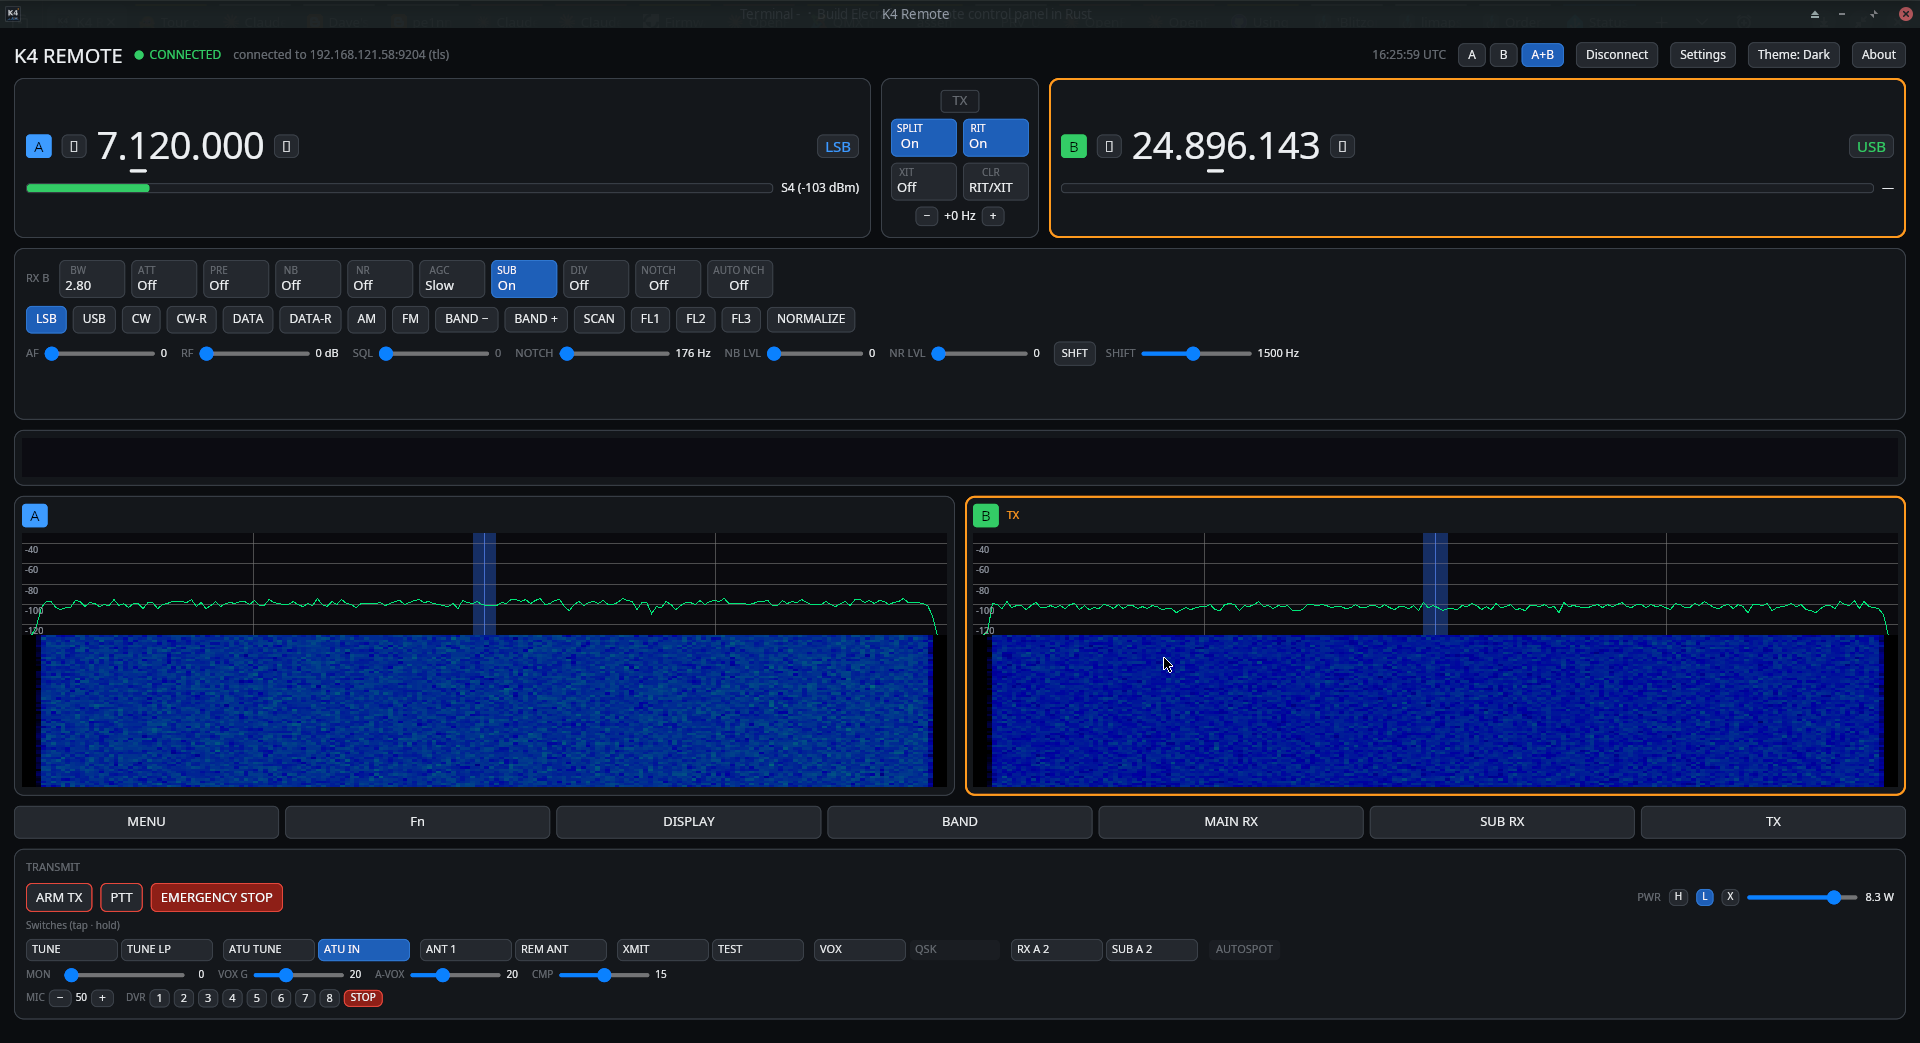
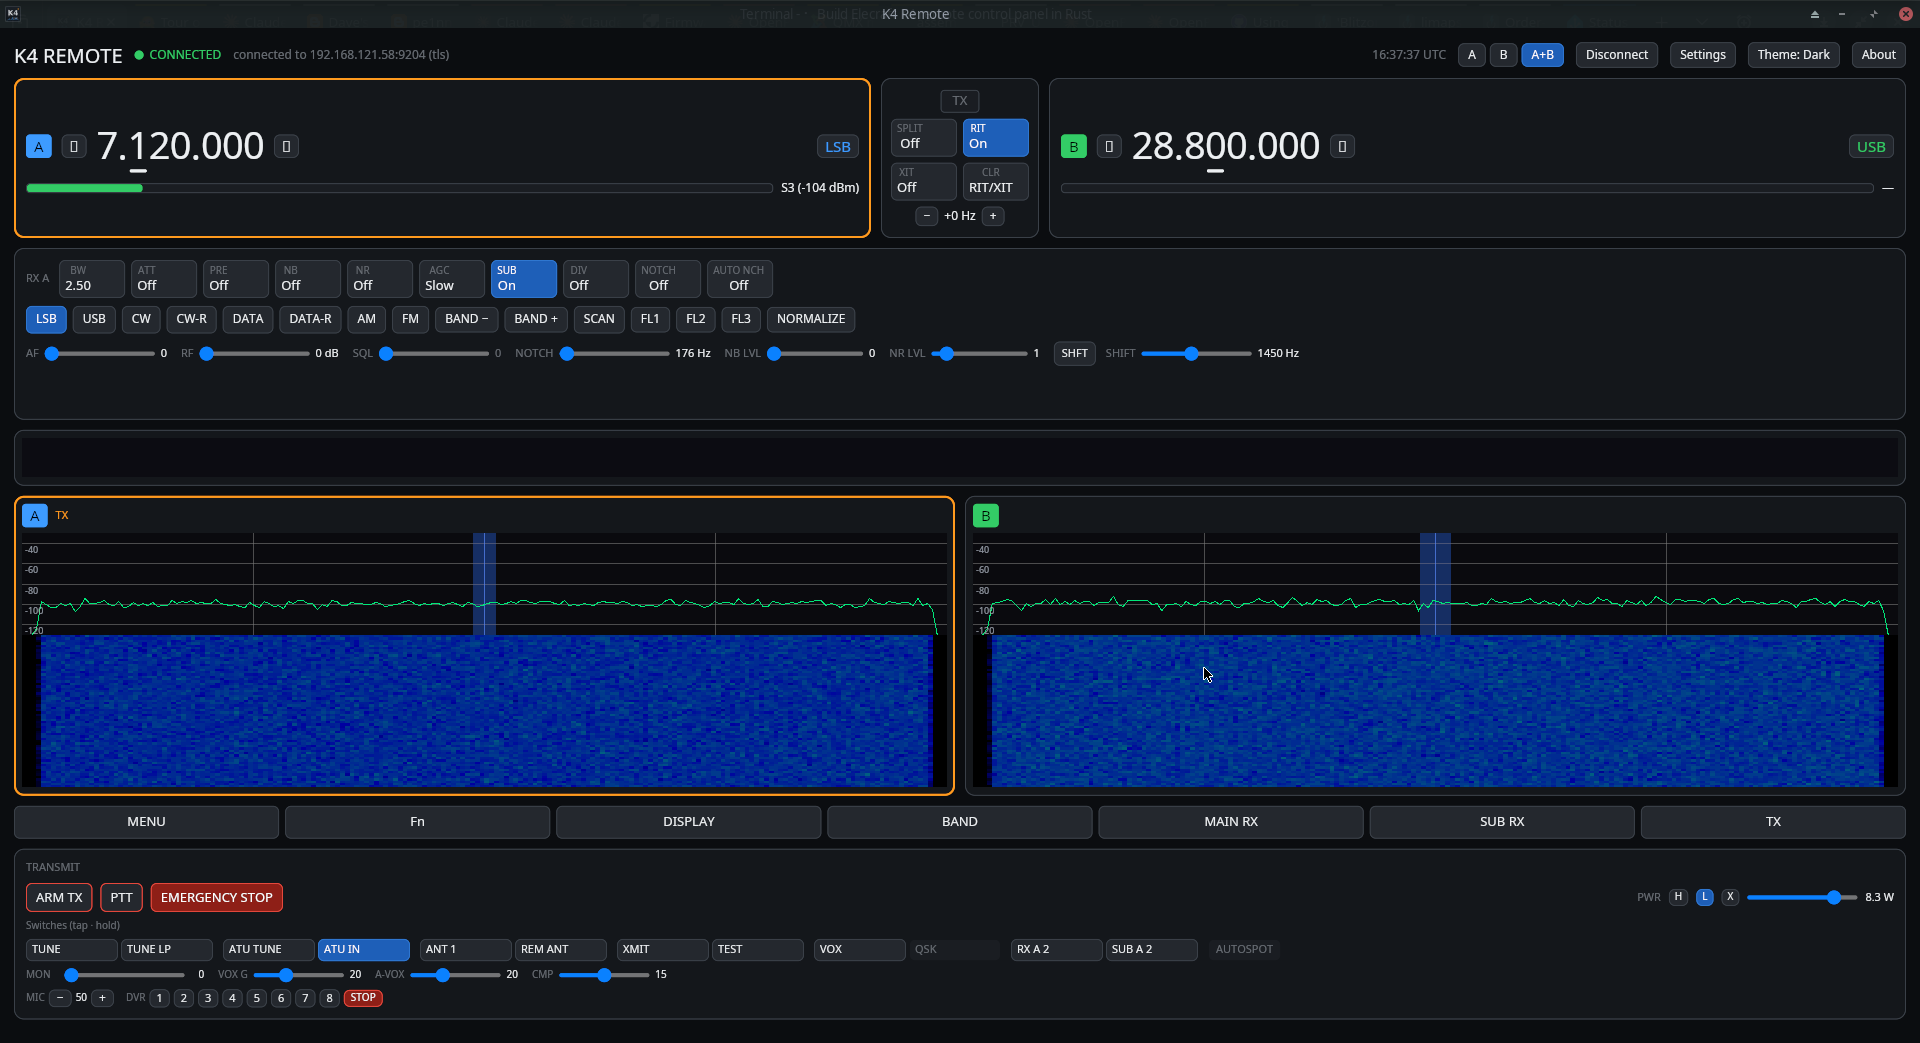
fix(band): target the transmit VFO, so it's right at connect under split
Follow-up to the previous band-targeting fix. That one used active_sub() (the
active RX, driven by the panadapter #DPM). But under split the panadapter still
shows VFO A while TX is on VFO B — so directly after connect, band +/- still
changed VFO A when TX/VFO B was active.

Band select, band +/-, and band-stack recall now target `tx_vfo_b` — the
transmit VFO, tracked from the radio's split state (FT) and synced at connect via
adopt_on_change(None -> Some). So a band change follows the VFO you operate on
immediately, before any A/B click. ("TX/VFO B active" means split is on, the only
way TX is on B.)

Claude-Session: https://claude.ai/code/session_017XWRr5ksog686NGyLvfR3k

diff --git a/app/src/main.rs b/app/src/main.rs
@@ -1304,17 +1304,16 @@ impl App {
                 }
             }
             Message::Band(up) => {
-                // Band up/down applies to the **active** VFO (main or sub), not
-                // always VFO A — matches the other menu controls (FR-VFO-04).
+                // Band up/down applies to the **transmit** VFO — VFO B under split,
+                // else VFO A — not always VFO A. `tx_vfo_b` tracks the radio's split
+                // state (synced at connect), so this is right immediately, before
+                // any A/B click (FR-VFO-04).
                 let cmd = if up {
                     k4_protocol::cat::band_up()
                 } else {
                     k4_protocol::cat::band_down()
                 };
-                self.send(WorkerCmd::Cat(target_rx(
-                    cmd.to_string(),
-                    self.active_sub(),
-                )));
+                self.send(WorkerCmd::Cat(target_rx(cmd.to_string(), self.tx_vfo_b)));
             }
             Message::ToggleAtten => {
                 self.send(WorkerCmd::Cat(target_rx("RA/;".into(), self.active_sub())))
@@ -1885,16 +1884,16 @@ impl App {
                 }
             },
             Message::Disp(d) => self.apply_disp(d),
-            // Band select + band-stack recall target the active VFO (main or sub),
-            // via `target_rx`, so a direct band change follows the VFO you're on —
-            // not always VFO A (FR-VFO-04).
+            // Band select + band-stack recall target the transmit VFO (VFO B under
+            // split, else A) via `target_rx`, so a band change follows the VFO you
+            // operate on — not always VFO A (FR-VFO-04).
             Message::SelectBand(bn) => self.send(WorkerCmd::Cat(target_rx(
                 k4_protocol::cat::set_band(bn),
-                self.active_sub(),
+                self.tx_vfo_b,
             ))),
             Message::BandStack => self.send(WorkerCmd::Cat(target_rx(
                 k4_protocol::cat::band_stack_next().to_string(),
-                self.active_sub(),
+                self.tx_vfo_b,
             ))),
             Message::SetTxTab(t) => self.tx_tab = t,
             Message::Tx(t) => self.apply_tx(t),
@@ -6238,10 +6237,10 @@ fn target_rx(cmd: String, sub: bool) -> String {
 mod band_target_tests {
     use super::target_rx;
 
-    /// Band select / band up-down / band-stack recall target the **active** VFO:
-    /// the bare mnemonic for the main receiver, and the `$` form (inserted after
-    /// the 2-char mnemonic) for the sub / VFO B — so a band change follows the
-    /// VFO you're operating instead of always VFO A.
+    /// Band select / band up-down / band-stack recall target the **transmit** VFO
+    /// (VFO B under split, else A): the bare mnemonic for the main VFO, and the
+    /// `$` form (inserted after the 2-char mnemonic) for the sub / VFO B — so a
+    /// band change follows the VFO you operate on instead of always VFO A.
     ///
     /// trace: FR-VFO-04
     #[test]

diff --git a/docs/test/test-strategy.md b/docs/test/test-strategy.md
@@ -339,3 +339,4 @@ FR-SES-MULTI, FR-DIAG-02, etc. — get `TC` IDs when promoted to `Approved`.)*
 | 2026-07-14 | 1.38 | DC0SK | Release **0.2.2**: version bumped 0.2.1 → 0.2.2 (workspace). First release to publish the Windows `setup.exe` installer (validated via the dry-run in 1.37). Refreshed README status + user-manual (version + a "Prebuilt downloads" section pointing at the Releases page). 161 tests. |
 | 2026-07-14 | 1.39 | DC0SK | Project **website** for GitHub Pages (`site/index.html`): a self-contained landing page — description, feature grid, a **highlights** spotlight for the mode-adaptive UI (CW/FM/DATA gallery) and the K-Pod (macro-editor mock), a 4-step walk-through, and downloads. Deployed by `.github/workflows/pages.yml` (GitHub Actions source; pulls screenshots/icons in at build time, `.nojekyll`). README links to it. No app/test change. 161 tests. |
 | 2026-07-14 | 1.40 | DC0SK | **Band buttons target the active VFO** (FR-VFO-04): band select, band ±, and band-stack recall always applied to VFO A, ignoring which VFO was active. They now route through `target_rx(active_sub())` so a band change follows the VFO you're operating (main → bare `BN…`, sub → `BN$…`). Removed the VFO-A-only `WorkerCmd::Band`. Also reduced the UI snapshot tick 150 → 100 ms so radio-round-trip changes (band/mode/freq read-back) and the spectrum/meters feel less laggy. New `target_rx` band-targeting test. 162 tests. |
+| 2026-07-14 | 1.41 | DC0SK | **Band targets the transmit VFO** (FR-VFO-04): 1.40 used the panadapter-driven `active_sub()` (active RX), but under split the panadapter still shows A while TX is on B — so directly after connect, band ± still changed VFO A when TX/VFO B was active. Switched band select / ± / stack to target `tx_vfo_b` (the transmit VFO, tracked from the radio's split state and synced at connect via `adopt_on_change`), so band follows the VFO you operate on immediately, before any A/B click. 162 tests. |